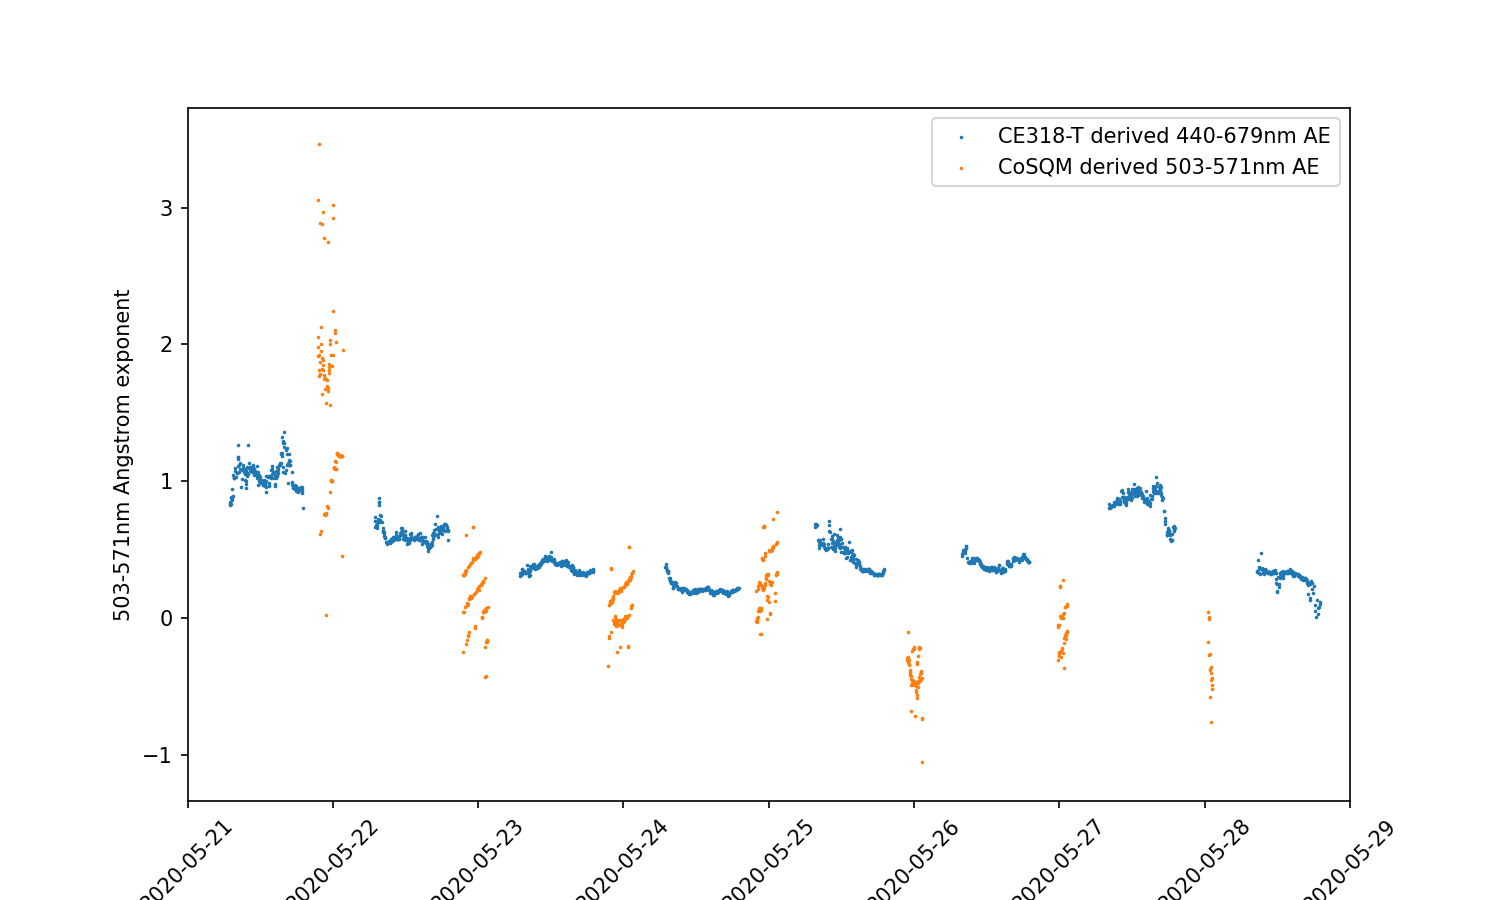
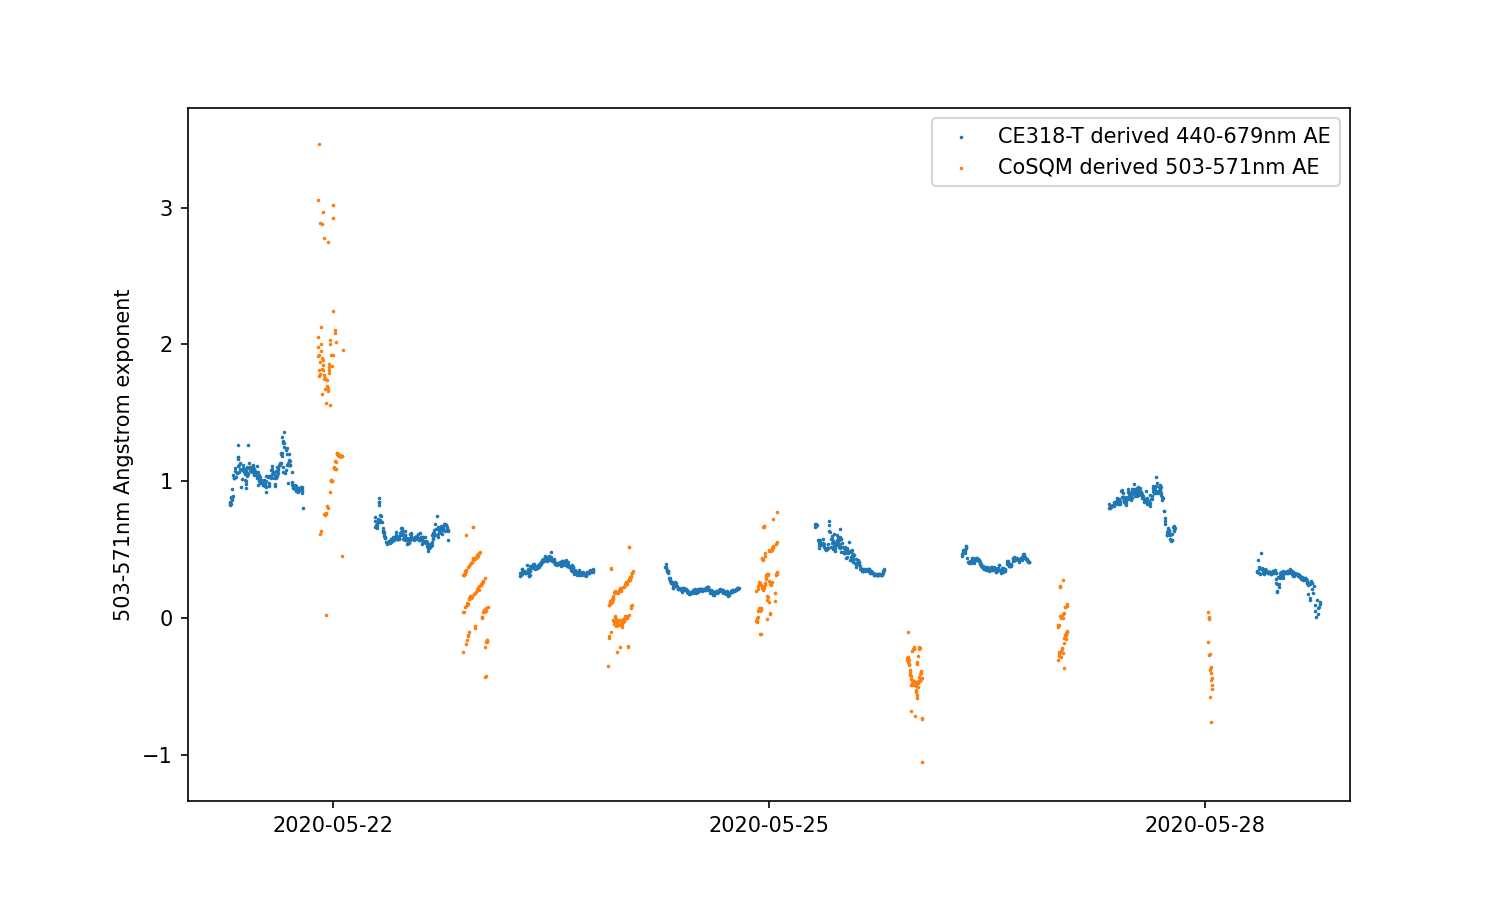
corrected graphs

diff --git a/aeronet_cosqm_correlation_santa.py b/aeronet_cosqm_correlation_santa.py
@@ -759,6 +759,48 @@ ax[0, 0].legend(loc='lower left', prop={'size': 8})
 plt.savefig('figures/correlation/santa/correlation_single_fit_santa.png')
 
 
+
+
+#single fit function: continuity 2020-02-21
+msize=0.5
+fig, ax = plt.subplots(2,2, sharex=True, sharey=True, dpi=150, figsize=(10,6))
+plt.setp(ax, xticks=[pd.Timestamp('2020-02-22'), pd.Timestamp('2020-02-27'), pd.Timestamp('2020-03-03')], xticklabels=['2020-02-22', '2020-02-27', '2020-03-03'])
+ax[0,0].scatter(dt_aod, data_aod[:,0], s=msize, label='CE318-T')
+ax[0,0].scatter(dt_santa_corr, cosqm_aod_r, s=msize, label='CoSQM derived AOD')
+ax[0,1].scatter(dt_aod, data_aod[:,1], s=msize)
+ax[0,1].scatter(dt_santa_corr, cosqm_aod_g, s=msize)
+ax[1,0].scatter(dt_aod, data_aod[:,2], s=msize)
+ax[1,0].scatter(dt_santa_corr, cosqm_aod_b, s=msize)
+ax[1,0].tick_params('x', labelrotation=0)
+ax[1,1].scatter(dt_aod, data_aod[:,3], s=msize)
+ax[1,1].scatter(dt_santa_corr, cosqm_aod_y, s=msize)
+ax[1,1].tick_params('x', labelrotation=0)
+ax[0, 0].set_yscale('log')
+ax[0,0].set_xlim(pd.Timestamp('2020-02-20'), pd.Timestamp('2020-03-04'))
+ax[0,0].set_ylim(0.01,5.3)
+fig.text(0.04, 0.5, 'Correlated AOD', va='center', rotation='vertical', fontsize=10)
+ax[0,0].legend()
+ax[0, 0].text(0.5,0.1, f'{cosqm_bands[0]} nm', horizontalalignment='center', verticalalignment='center', transform=ax[0,0].transAxes, fontsize=10)
+ax[0, 1].text(0.5,0.1, f'{cosqm_bands[1]} nm', horizontalalignment='center', verticalalignment='center', transform=ax[0,1].transAxes, fontsize=10)
+ax[1, 0].text(0.5,0.1, f'{cosqm_bands[2]} nm', horizontalalignment='center', verticalalignment='center', transform=ax[1,0].transAxes, fontsize=10)
+ax[1, 1].text(0.5,0.1, f'{cosqm_bands[3]} nm', horizontalalignment='center', verticalalignment='center', transform=ax[1,1].transAxes, fontsize=10)
+plt.savefig('figures/continuity/continuity_aod_20200220.png')
+
+
+#single fit function: continuity Angstrom 2020-02-21
+fig, ax = plt.subplots(1,1, dpi=150, figsize=(10,6))
+plt.setp(ax, xticks=[pd.Timestamp('2020-02-22'), pd.Timestamp('2020-02-27'), pd.Timestamp('2020-03-03')], xticklabels=['2020-02-22', '2020-02-27', '2020-03-03'])
+ax.scatter(dt_aod, data_angstrom, s=0.5, label='CE318-T derived 440-679nm AE')
+ax.scatter(dt_santa_corr, cosqm_santa_angstrom, s=0.5, label='CoSQM derived 503-571nm AE')
+ax.set_xlim(pd.Timestamp('2020-02-20'), pd.Timestamp('2020-03-04'))
+ax.set_ylim(-1.34,3.73)
+ax.set_ylabel('503-571nm Angstrom exponent')
+ax.legend()
+#ax.set_yscale('log')
+plt.savefig('figures/continuity/continuity_angstrom_20200220.png')
+
+
+
 #single fit function: continuity 2020-05-21
 msize=0.5
 fig, ax = plt.subplots(2,2, sharex=True, sharey=True, dpi=150, figsize=(10,6))
@@ -787,6 +829,7 @@ plt.savefig('figures/continuity/continuity_aod_20200521.png')
 
 #single fit function: continuity Angstrom 2020-05-21
 fig, ax = plt.subplots(1,1, dpi=150, figsize=(10,6))
+plt.setp(ax, xticks=[pd.Timestamp('2020-05-22'), pd.Timestamp('2020-05-25'), pd.Timestamp('2020-05-28')], xticklabels=['2020-05-22', '2020-05-25', '2020-05-28'])
 ax.scatter(dt_aod, data_angstrom, s=0.5, label='CE318-T derived 440-679nm AE')
 ax.scatter(dt_santa_corr, cosqm_santa_angstrom, s=0.5, label='CoSQM derived 503-571nm AE')
 ax.set_xlim(pd.Timestamp('2020-05-21'), pd.Timestamp('2020-05-29'))
@@ -797,44 +840,42 @@ ax.legend()
 plt.savefig('figures/continuity/continuity_angstrom_20200521.png')
 
 
-
 #single fit function: continuity -> variance for uncertainty
 fig, ax = plt.subplots(2,2, sharex=True, sharey=True, dpi=150, figsize=(10,6))
-ax[0,0].scatter(dt_aod, data_aod[:,0], s=10, label='CE318-T')
-ax[0,0].scatter(dt_santa_corr, cosqm_aod_r, s=10, label='CoSQM derived AOD')
-ax[0,1].scatter(dt_aod, data_aod[:,1], s=10)
-ax[0,1].scatter(dt_santa_corr, cosqm_aod_g, s=10)
-ax[1,0].scatter(dt_aod, data_aod[:,2], s=10)
-ax[1,0].scatter(dt_santa_corr, cosqm_aod_b, s=10)
-ax[1,0].tick_params('x', labelrotation=45)
-ax[1,1].scatter(dt_aod, data_aod[:,3], s=10)
-ax[1,1].scatter(dt_santa_corr, cosqm_aod_y, s=10)
-ax[1,1].tick_params('x', labelrotation=45)
-ax[0, 0].set_yscale('log')
+plt.setp(ax, xticks=[pd.Timestamp('2020-05-23 15'), pd.Timestamp('2020-05-24 07')], xticklabels=['2020-05-23 15 ', '2020-05-24 07'])
+ax[0,0].scatter(dt_aod, data_aod[:,0], s=msize, label='CE318-T')
+ax[0,0].scatter(dt_santa_corr, cosqm_aod_r, s=msize, label='CoSQM derived AOD')
+ax[0,1].scatter(dt_aod, data_aod[:,1], s=msize)
+ax[0,1].scatter(dt_santa_corr, cosqm_aod_g, s=msize)
+ax[1,0].scatter(dt_aod, data_aod[:,2], s=msize)
+ax[1,0].scatter(dt_santa_corr, cosqm_aod_b, s=msize)
+ax[1,1].scatter(dt_aod, data_aod[:,3], s=msize)
+ax[1,1].scatter(dt_santa_corr, cosqm_aod_y, s=msize)
+#ax[0, 0].set_yscale('log')
 ax[0,0].set_xlim(pd.Timestamp('2020-05-23 12'), pd.Timestamp('2020-05-24 10'))
 ax[0,0].set_ylim(0.12,0.22)
 #fig.text(0.5, 0.04, 'Date', ha='center', fontsize=15)
-fig.text(0.04, 0.5, 'Correlated AOD', va='center', rotation='vertical', fontsize=15)
-ax[0,0].legend(loc='lower center')
-ax[0, 0].text(0.25,0.75, f'{cosqm_bands[0]} nm', horizontalalignment='center', verticalalignment='center', transform=ax[0,0].transAxes, fontsize=15)
-ax[0, 1].text(0.25,0.75, f'{cosqm_bands[1]} nm', horizontalalignment='center', verticalalignment='center', transform=ax[0,1].transAxes, fontsize=15)
-ax[1, 0].text(0.25,0.75, f'{cosqm_bands[2]} nm', horizontalalignment='center', verticalalignment='center', transform=ax[1,0].transAxes, fontsize=15)
-ax[1, 1].text(0.25,0.75, f'{cosqm_bands[3]} nm', horizontalalignment='center', verticalalignment='center', 
-transform=ax[1,1].transAxes, fontsize=15)
-plt.savefig('figures/continuity/continuity_santa_20200524_variance.png')
+fig.text(0.04, 0.5, 'Correlated AOD', va='center', rotation='vertical', fontsize=10)
+ax[0,0].legend(loc='upper center')
+ax[0, 0].text(0.5,0.10, f'{cosqm_bands[0]} nm', horizontalalignment='center', verticalalignment='center', transform=ax[0,0].transAxes, fontsize=10)
+ax[0, 1].text(0.5,0.10, f'{cosqm_bands[1]} nm', horizontalalignment='center', verticalalignment='center', transform=ax[0,1].transAxes, fontsize=10)
+ax[1, 0].text(0.5,0.10, f'{cosqm_bands[2]} nm', horizontalalignment='center', verticalalignment='center', transform=ax[1,0].transAxes, fontsize=10)
+ax[1, 1].text(0.5,0.10, f'{cosqm_bands[3]} nm', horizontalalignment='center', verticalalignment='center', transform=ax[1,1].transAxes, fontsize=10)
+plt.savefig('figures/continuity/continuity_aod_20200524_variance.png')
 
 
 #single fit function: continuity Angstrom -> variance uncertainty
 fig, ax = plt.subplots(1,1, dpi=150, figsize=(8,5))
-ax.scatter(dt_aod, data_angstrom, s=10, label='CE318-T derived 440-679nm AE')
-ax.scatter(dt_santa_corr, cosqm_santa_angstrom, s=10, label='CoSQM derived 503-571nm AE')
-ax.tick_params('x', labelrotation=45)
-#ax.set_xlim(pd.Timestamp('2020-05-23 12'), pd.Timestamp('2020-05-24 10'))
+plt.setp(ax, xticks=[pd.Timestamp('2020-05-22 15'), pd.Timestamp('2020-05-24 00'), pd.Timestamp('2020-05-25 10')], xticklabels=['2020-05-22 15 ', '2020-05-24 00', '2020-05-25 12'])
+ax.scatter(dt_aod, data_angstrom, s=msize, label='CE318-T derived 440-679nm AE')
+ax.scatter(dt_santa_corr, cosqm_santa_angstrom, s=msize, label='CoSQM derived 503-571nm AE')
+ax.set_xlim(pd.Timestamp('2020-05-22 10'), pd.Timestamp('2020-05-25 12'))
+ax.set_ylim(-0.5,0.798)
 #ax.set_ylim(-0.4,0.5)
 #ax.set_yscale('log')
 #fig.text(0.5, 0.04, 'Date', ha='center', fontsize=15)
-fig.text(0.04, 0.5, 'Angstrom exponent', va='center', rotation='vertical', fontsize=15)
-plt.savefig('figures/continuity/continuity_santa_angstrom_variance.png')
+fig.text(0.04, 0.5, '503-571nm Angstrom exponent', va='center', rotation='vertical', fontsize=10)
+plt.savefig('figures/continuity/continuity_angstrom_20200524_variance.png')
 
 
 
